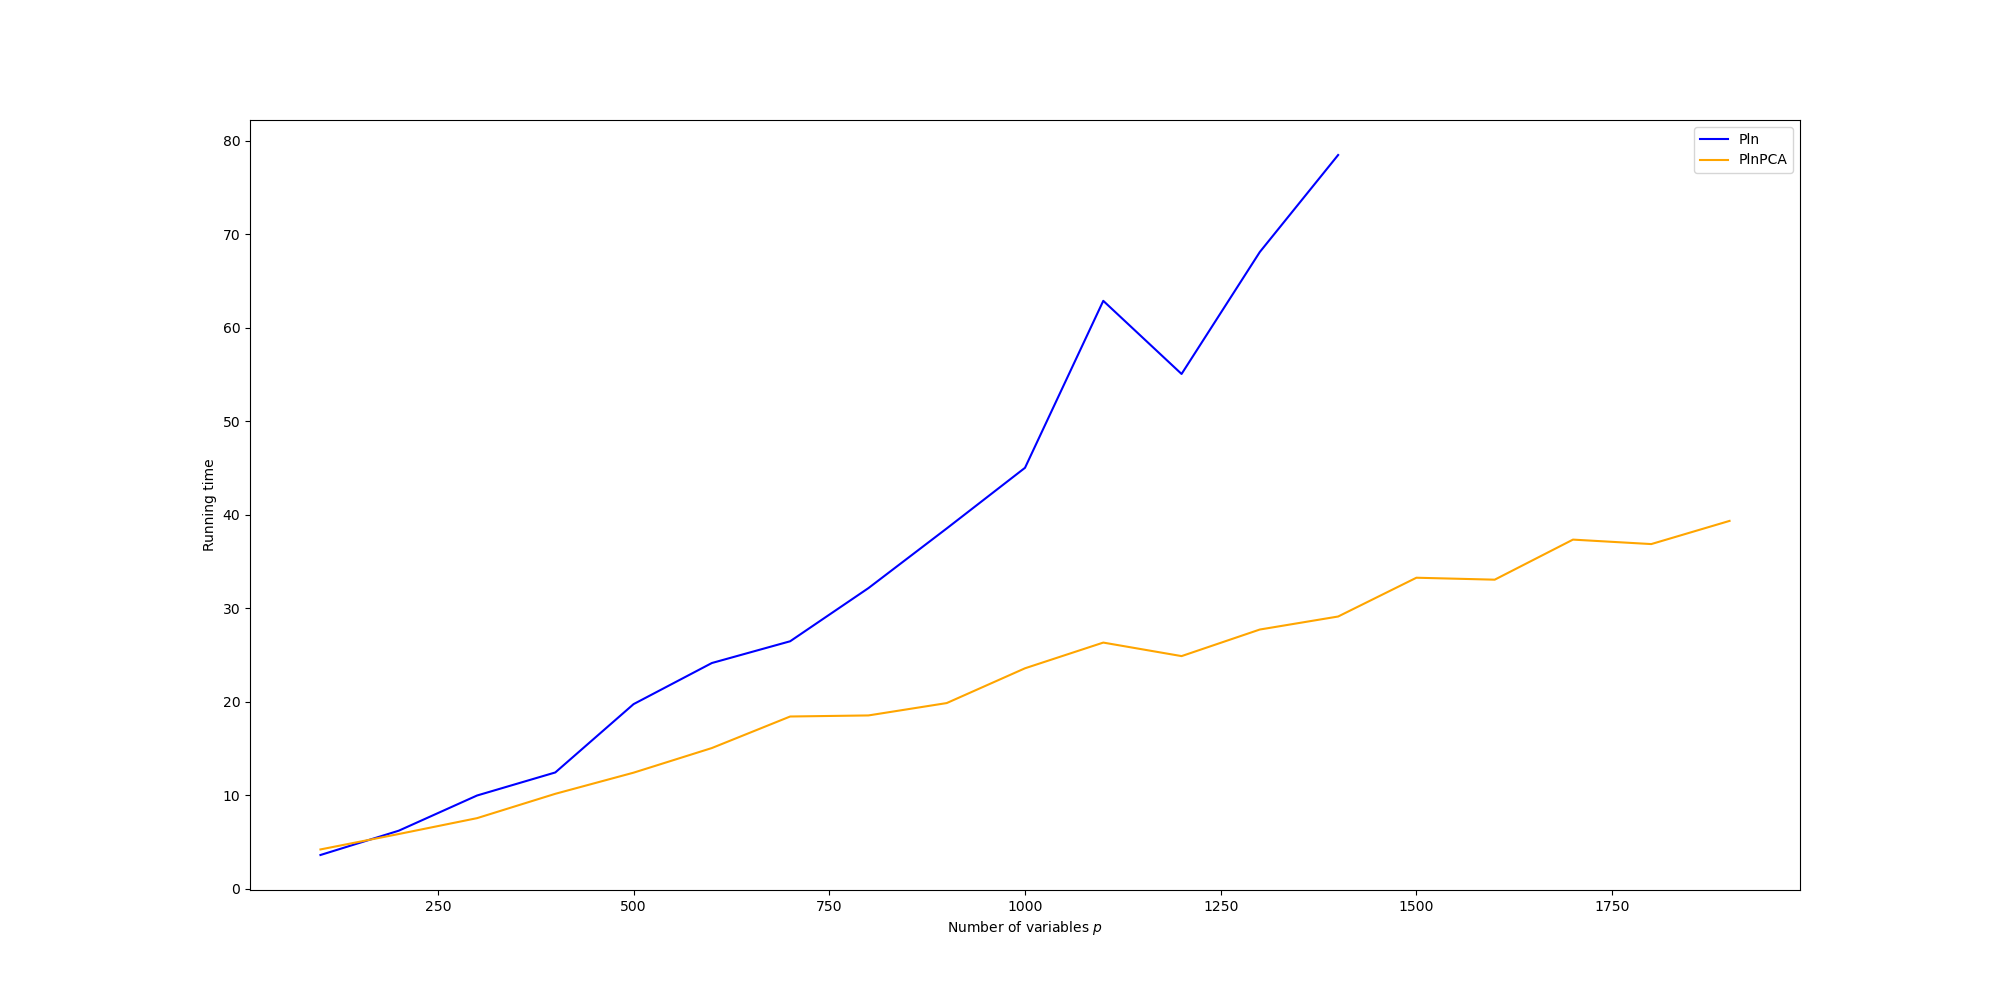
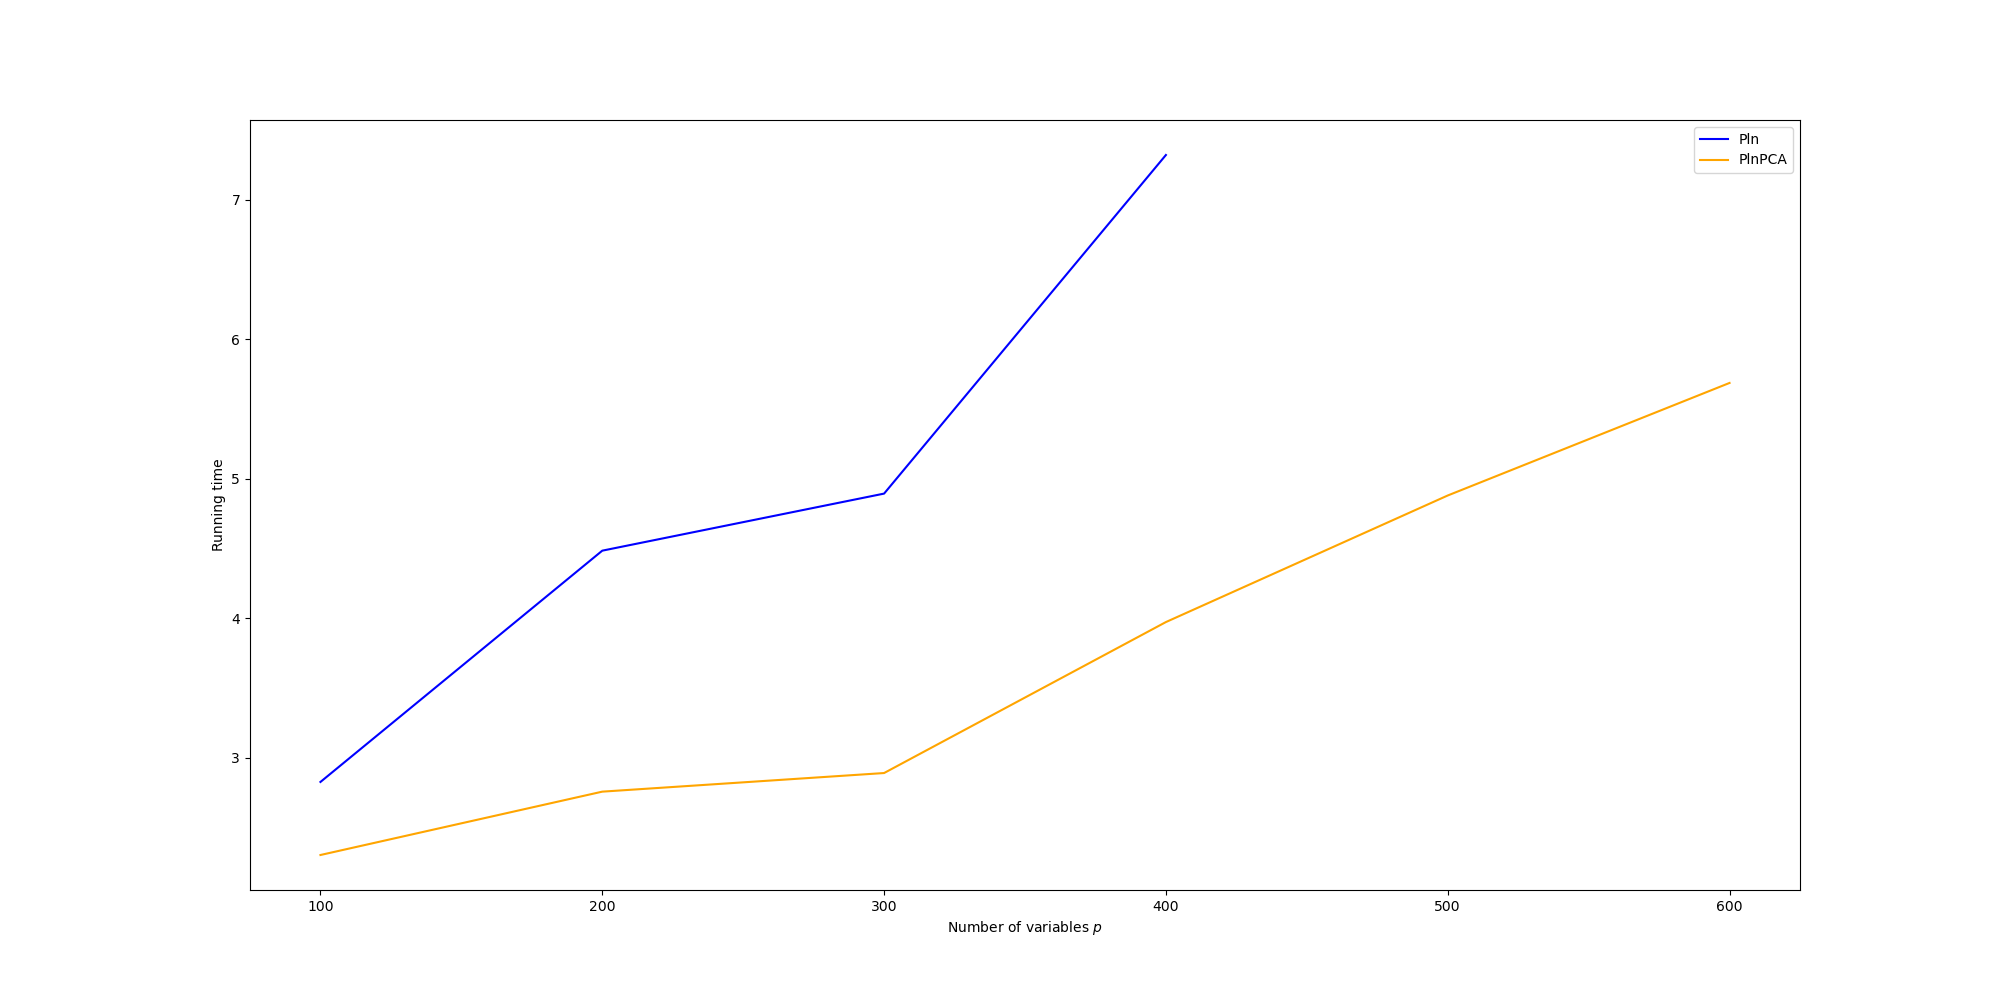
begin simulations with gllvm and pyPLNmodels

diff --git a/benchmark.py b/benchmark.py
@@ -1,6 +1,7 @@
 from os.path import exists
 from pyPLNmodels import Pln, PlnPCA
 import numpy as np
+import pandas as pd
 import scanpy
 import matplotlib.pyplot as plt
 import seaborn as sns
@@ -41,28 +42,31 @@ def append_running_times_model(Y, model_str):
 def plot_dict(dict_rt, model_str):
     dict_rt_model = dict_rt[str(model_str)]
     if model_str == "Pln":
-        ps = ps_pln
         color = "blue"
     else:
-        ps = ps_plnpca
         color = "orange"
-    print("ps_pln:", ps_pln)
-    sns.lineplot(x=ps, y=dict_rt_model, color=color, label=f"{model_str}")
+    sns.lineplot(x=ps_plnpca, y=dict_rt_model, color=color, label=f"{model_str}")
     plt.legend()
     plt.xlabel(r"Number of variables $p$")
     plt.ylabel("Running time")
 
 
 if __name__ == "__main__":
-    n = 600
+    full, _, _ = get_sc_mark_data(max_n=1000, dim=1500)
+    full = np.flip(full, axis=1)
+    df = pd.DataFrame(full)
+    df.to_csv("full_scmark_little.csv")
+    df = pd.read_csv("full_scmark_little.csv")
+
+    n = 300
     # p0 = 2500
     # pn = 14059
     # ecart = 300
     fig = plt.figure(figsize=(20, 10))
-    pmax_pln = 1500
-    pn = 2000
+    pmax_pln = 500
+    pn = 700
     ecart = 100
-    rank = 40
+    rank = 5
     ps_pln = np.arange(100, pmax_pln, ecart)
     ps_plnpca = np.concatenate((ps_pln, np.arange(pmax_pln, pn, ecart)))
     name_file = (
@@ -76,17 +80,30 @@ if __name__ == "__main__":
     if True:
         # if exists(name_file) is False:
         for p in tqdm(ps_plnpca):
-            print("dim:", p)
-            Y, _, labels = get_sc_mark_data(max_n=n, dim=p)
+            Y = df.values[:n, :p]
+            # Y, _, labels = get_sc_mark_data(max_n=n, dim=p)
             append_running_times_model(Y, "PlnPCA")
             if p < pmax_pln:
                 append_running_times_model(Y, "Pln")
+            else:
+                dict_rt["Pln"].append(None)
+            print("dict_rt", dict_rt)
+
     else:
         with open(name_file, "rb") as fp:
             dict_rt = pickle.load(fp)
 
     with open(name_file, "wb") as fp:
         pickle.dump(dict_rt, fp)
+
+    df_results_pln = pd.DataFrame.from_dict(
+        {"Pln": dict_rt["Pln"]}, columns=ps_plnpca, orient="index"
+    )
+    df_results_plnpca = pd.DataFrame.from_dict(
+        {"PlnPCA": dict_rt["PlnPCA"]}, columns=ps_plnpca, orient="index"
+    )
+    df_results_pln.to_csv("csv_res_benchmark/python_pln.csv")
+    df_results_plnpca.to_csv("csv_res_benchmark/python_plnpca.csv")
     plot_dict(dict_rt, "Pln")
     plot_dict(dict_rt, "PlnPCA")
     plt.savefig(f"paper/illustration.png", format="png")

diff --git a/pca.py b/pca.py
@@ -6,23 +6,25 @@ import seaborn as sns
 import numpy as np
 import time
 
-fig, axes = plt.subplots(1, 2, figsize=(20, 10))
 
 n = 1000
-p = 14059
+p = 15000
 Y, _, GT = get_sc_mark_data(max_n=n, dim=p)
 
 
-plnpca = PlnPCA(Y, rank=280)
+plnpca = PlnPCA(Y, rank=2)
 t = time.time()
-plnpca.fit(tol=0.15, verbose=True)
-print("time took:", (time.time() - t) / 60)
+plnpca.fit(tol=0.001, verbose=True, nb_max_iteration=700)
+print("time took pln:", (time.time() - t) / 60)
+plnpca.show()
+fig, axes = plt.subplots(1, 2, figsize=(20, 10))
 
 
 plnpca.viz(colors=GT, ax=axes[0])
-
+t = time.time()
 pca = PCA(n_components=2)
 y_pca = pca.fit_transform(np.log(Y + (Y == 0)))
+print("time took pca", time.time() - t)
 sns.scatterplot(x=y_pca[:, 0], y=y_pca[:, 1], ax=axes[1], hue=GT)
 axes[0].set_title("Principal Component Analysis with PlnPCA")
 axes[0].set_xlabel("PC1")
@@ -31,4 +33,4 @@ axes[1].set_xlabel("PC1")
 axes[1].set_ylabel("PC2")
 axes[1].set_title("Standard Principal Component Analysis")
 plt.savefig("paper/plnpca_vs_pca.png", format="png")
-# plt.show()
+plt.show()

diff --git a/pyPLNmodels/models.py b/pyPLNmodels/models.py
@@ -299,7 +299,6 @@ class _model(ABC):
             covariances = self._get_pca_low_dim_covariances(sk_components).detach()
             for i in range(covariances.shape[0]):
                 _plot_ellipse(x[i], y[i], cov=covariances[i], ax=ax)
-        plt.show()
         return ax
 
     def _project_parameters(self):

diff --git a/paper/paper.md b/paper/paper.md
@@ -56,11 +56,14 @@ acceleration.
 
 To illustrate the main model's interest, we display below a visualization of the first two principal components when Principal
 Component Analysis (PCA) is performed with the PLN-PCA model (left) and standard PCA on
-the log normalized data (right).  The data considered is the `scMARK` benchmark [@scMark] described in the
-benchmark section. We kept 1000 samples and 9 cell types for illustration purposes.
+the log normalized data (right). The data considered is the `scMARK` benchmark [@scMark] described in the
+benchmark section. We kept 1000 samples and 9 cell types for illustration
+purposes. The computational time for fitting PLN-PCA is 8 minutes, whereas
+standard PCA requires 2 seconds.
 
 
-![PLN-PCA (left) and standard PCA on log normalized data (right).](plnpca_vs_pca.png)
+![PLN-PCA (left) and standard PCA on log normalized data (right). The computational time for fitting PLN-PCA is 8 minutes, and seconds for
+standard PCA.](plnpca_vs_pca.png)
 
 # Statement of need
 While the R-package `PLNmodels` [@PLNmodels] implements PLN models, the python package
